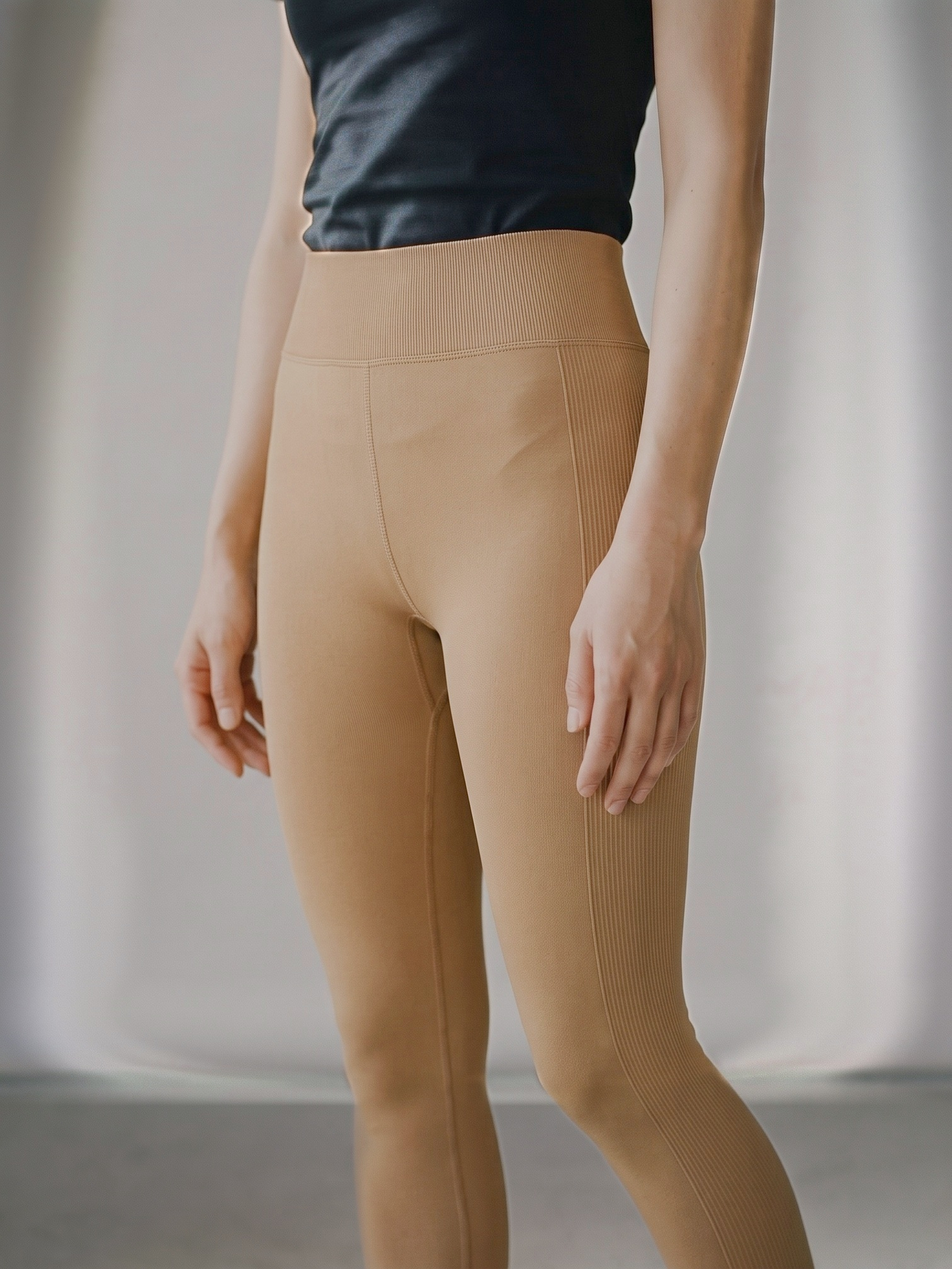
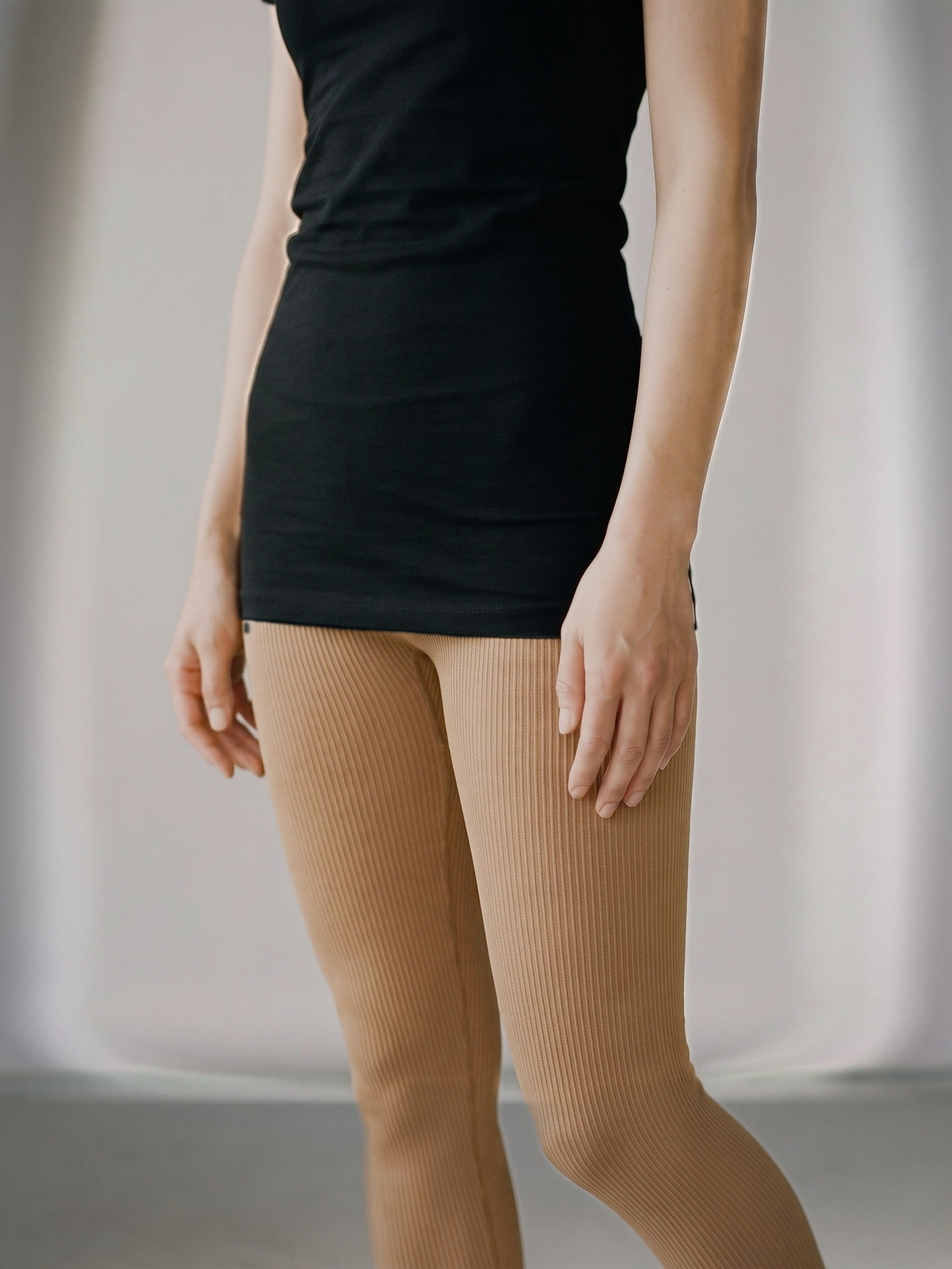
Sand legging detail shot: fix2 leggings with the base black top composited back, products.js?v=44
Claude-Session: https://claude.ai/code/session_01TH6XjwVeudERd93hT9p8gq

diff --git a/assets/products.js b/assets/products.js
@@ -80,7 +80,7 @@ window.COVERLINE_PRODUCTS = [
     care: "Seamless stretch knit. Machine wash cold, hang or lay flat to dry. Skip the tumble dryer — it\'s what kills the stretch in every pair you\'ve owned before.",
     colors: [
       { key: "black", label: "Black", hex: "#25272a", image: "/assets/product-images/legging-black.jpg?v=39", images: ["/assets/product-images/legging-black.jpg?v=39", "/assets/product-images/legging-black-proof.jpg?v=39", "/assets/product-images/legging-black-back.jpg?v=39", "/assets/product-images/legging-black-detail.jpg?v=39"] },
-      { key: "nude", label: "Sand", hex: "#c9a888", image: "/assets/product-images/legging-nude.jpg?v=43", images: ["/assets/product-images/legging-nude.jpg?v=43", "/assets/product-images/legging-nude-proof.jpg?v=43", "/assets/product-images/legging-nude-back.jpg?v=43", "/assets/product-images/legging-nude-detail.jpg?v=43"] }
+      { key: "nude", label: "Sand", hex: "#c9a888", image: "/assets/product-images/legging-nude.jpg?v=44", images: ["/assets/product-images/legging-nude.jpg?v=44", "/assets/product-images/legging-nude-proof.jpg?v=44", "/assets/product-images/legging-nude-back.jpg?v=44", "/assets/product-images/legging-nude-detail.jpg?v=44"] }
     ],
     image: "/assets/product-images/legging-black.jpg?v=39",
     swatch: function(){ return '<rect width="300" height="400" fill="var(--paper-raised)"/><path d="M0,240 C 100,300 200,200 300,260 L300,400 L0,400 Z" fill="var(--accent-2)" opacity=".5"/><path d="M0,150 C 110,90 190,210 300,160" fill="none" stroke="var(--accent)" stroke-width="1"/>'; }

diff --git a/product.html b/product.html
@@ -75,7 +75,7 @@
   </div>
 </footer>
 
-<script src="/assets/products.js?v=43"></script>
+<script src="/assets/products.js?v=44"></script>
 <script src="/assets/sizecharts.js?v=2"></script>
 <script src="/assets/reviews.js?v=1"></script>
 <script src="/assets/config.js?v=4"></script>

diff --git a/index.html b/index.html
@@ -100,7 +100,7 @@
   </div>
 </footer>
 
-<script src="/assets/products.js?v=43"></script>
+<script src="/assets/products.js?v=44"></script>
 <script src="/assets/config.js?v=4"></script>
 <script src="/assets/cart.js?v=10"></script>
 <script>

diff --git a/review.html b/review.html
@@ -74,7 +74,7 @@
   </div>
 </footer>
 
-<script src="/assets/products.js?v=43"></script>
+<script src="/assets/products.js?v=44"></script>
 <script src="/assets/config.js?v=4"></script>
 <script src="/assets/cart.js?v=10"></script>
 <script>

diff --git a/404.html b/404.html
@@ -46,7 +46,7 @@
   </div>
 </footer>
 
-<script src="/assets/products.js?v=43"></script>
+<script src="/assets/products.js?v=44"></script>
 <script src="/assets/config.js?v=4"></script>
 <script src="/assets/cart.js?v=10"></script>
 </body>

diff --git a/privacy.html b/privacy.html
@@ -85,7 +85,7 @@
   </div>
 </footer>
 
-<script src="/assets/products.js?v=43"></script>
+<script src="/assets/products.js?v=44"></script>
 <script src="/assets/config.js?v=4"></script>
 <script src="/assets/cart.js?v=10"></script>
 </body>

diff --git a/shipping-returns.html b/shipping-returns.html
@@ -78,7 +78,7 @@
   </div>
 </footer>
 
-<script src="/assets/products.js?v=43"></script>
+<script src="/assets/products.js?v=44"></script>
 <script src="/assets/config.js?v=4"></script>
 <script src="/assets/cart.js?v=10"></script>
 </body>

diff --git a/terms.html b/terms.html
@@ -92,7 +92,7 @@
   </div>
 </footer>
 
-<script src="/assets/products.js?v=43"></script>
+<script src="/assets/products.js?v=44"></script>
 <script src="/assets/config.js?v=4"></script>
 <script src="/assets/cart.js?v=10"></script>
 </body>
